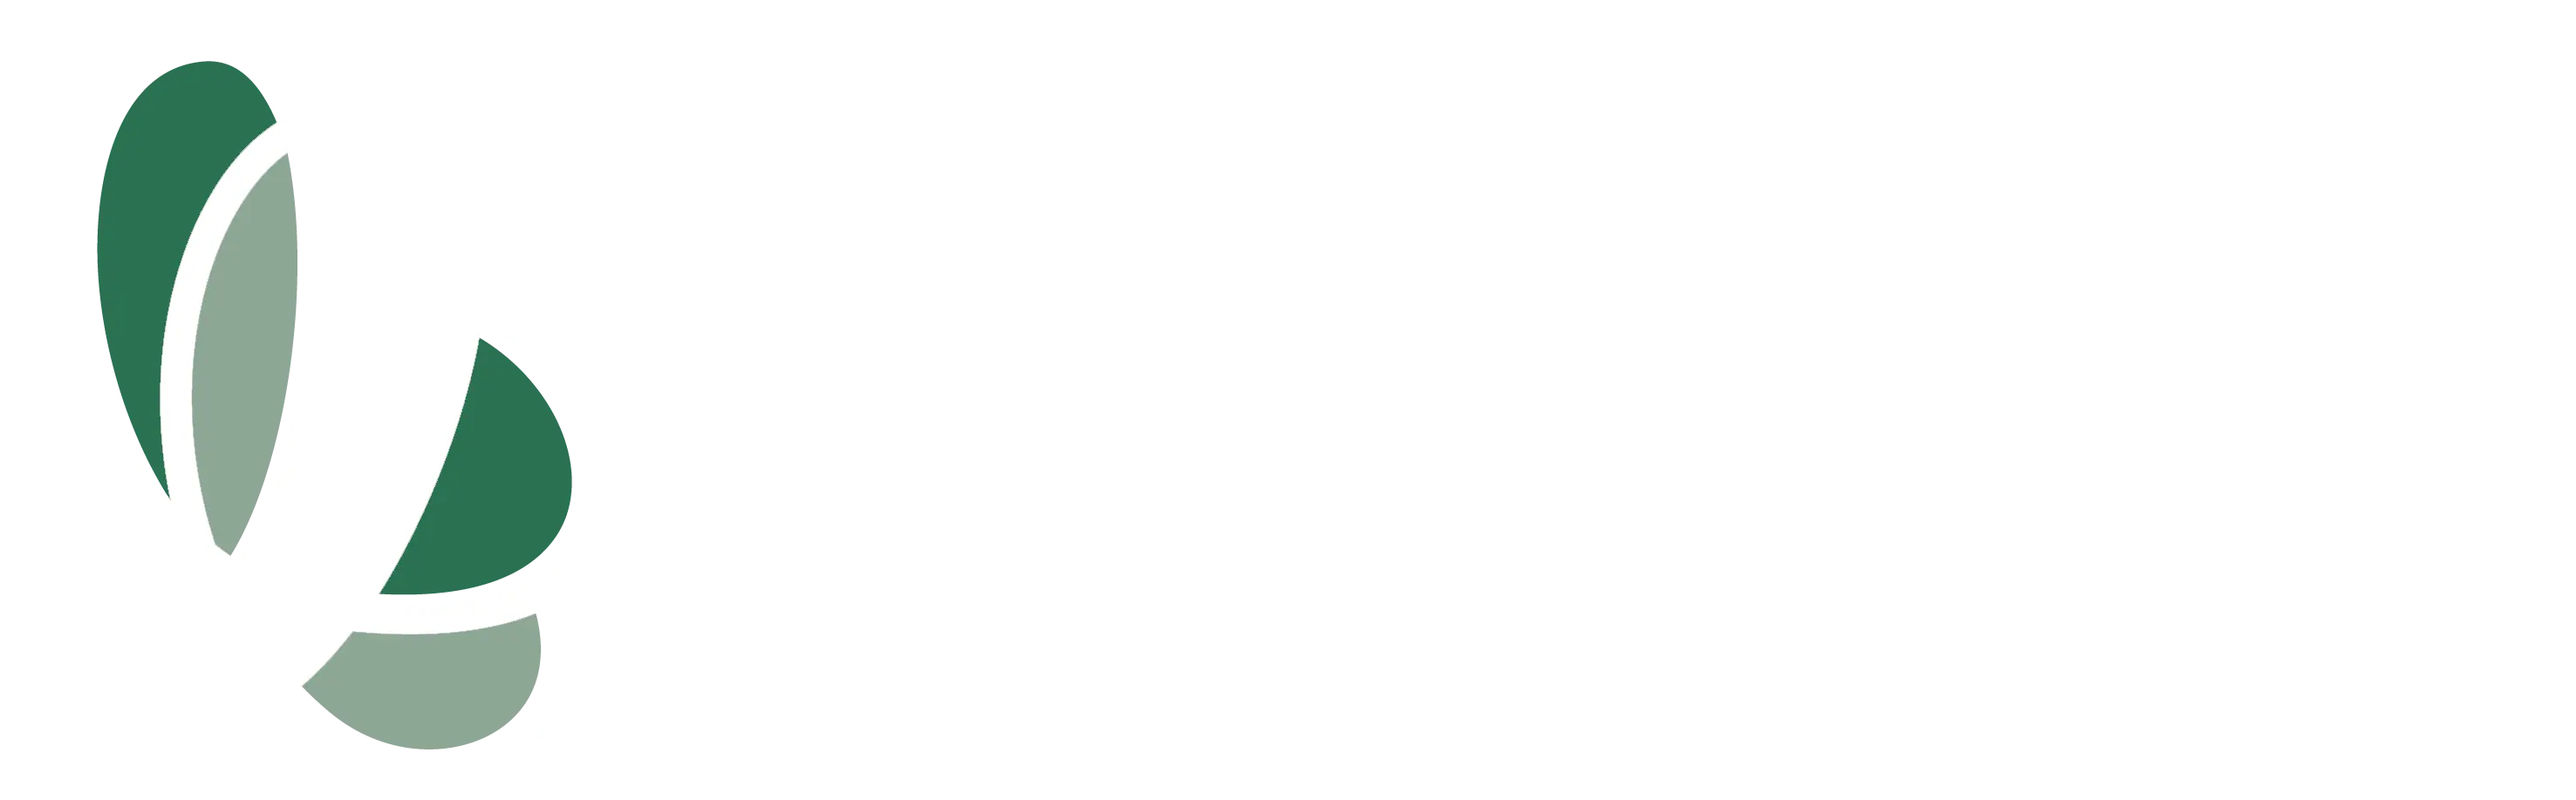
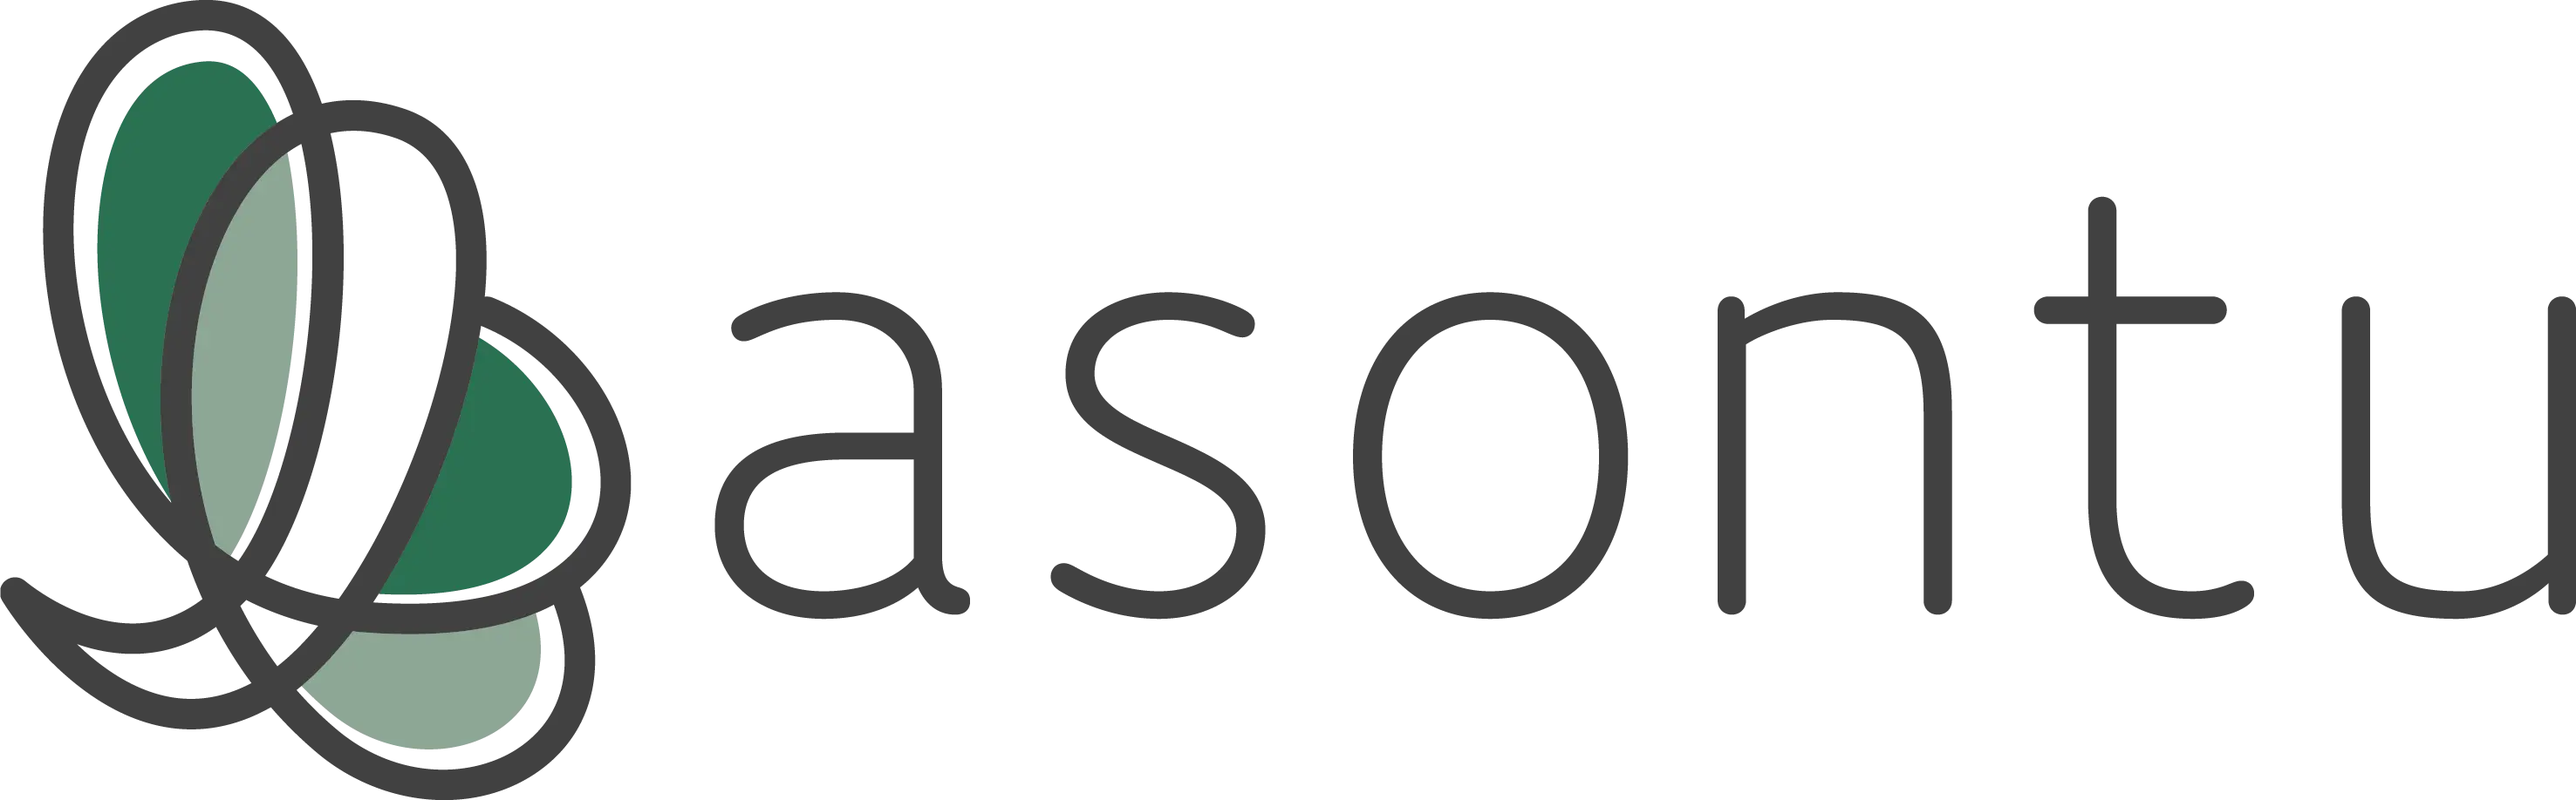
fixing light mode sponsors

diff --git a/apps/web/src/lib/constants/sponsors.ts b/apps/web/src/lib/constants/sponsors.ts
@@ -4,8 +4,8 @@ export const sponsors: SponsorDetails[] = [
   {
     name: "TantoSec",
     logo: {
-      light: "/images/sponsors/tanto-security.webp",
-      dark: "/images/sponsors/tanto-security.webp",
+      light: "/images/sponsors/tanto-security.svg",
+      dark: "/images/sponsors/tanto-security-dark.webp",
     },
     url: "https://tantosec.com/",
     level: "platinum",
@@ -80,7 +80,7 @@ Learn more:`,
     name: "Asontu",
     logo: {
       light: "/images/sponsors/asontu.webp",
-      dark: "/images/sponsors/asontu.webp",
+      dark: "/images/sponsors/asontu-dark.webp",
     },
     url: "https://asontu.com.au/",
     level: "silver",
